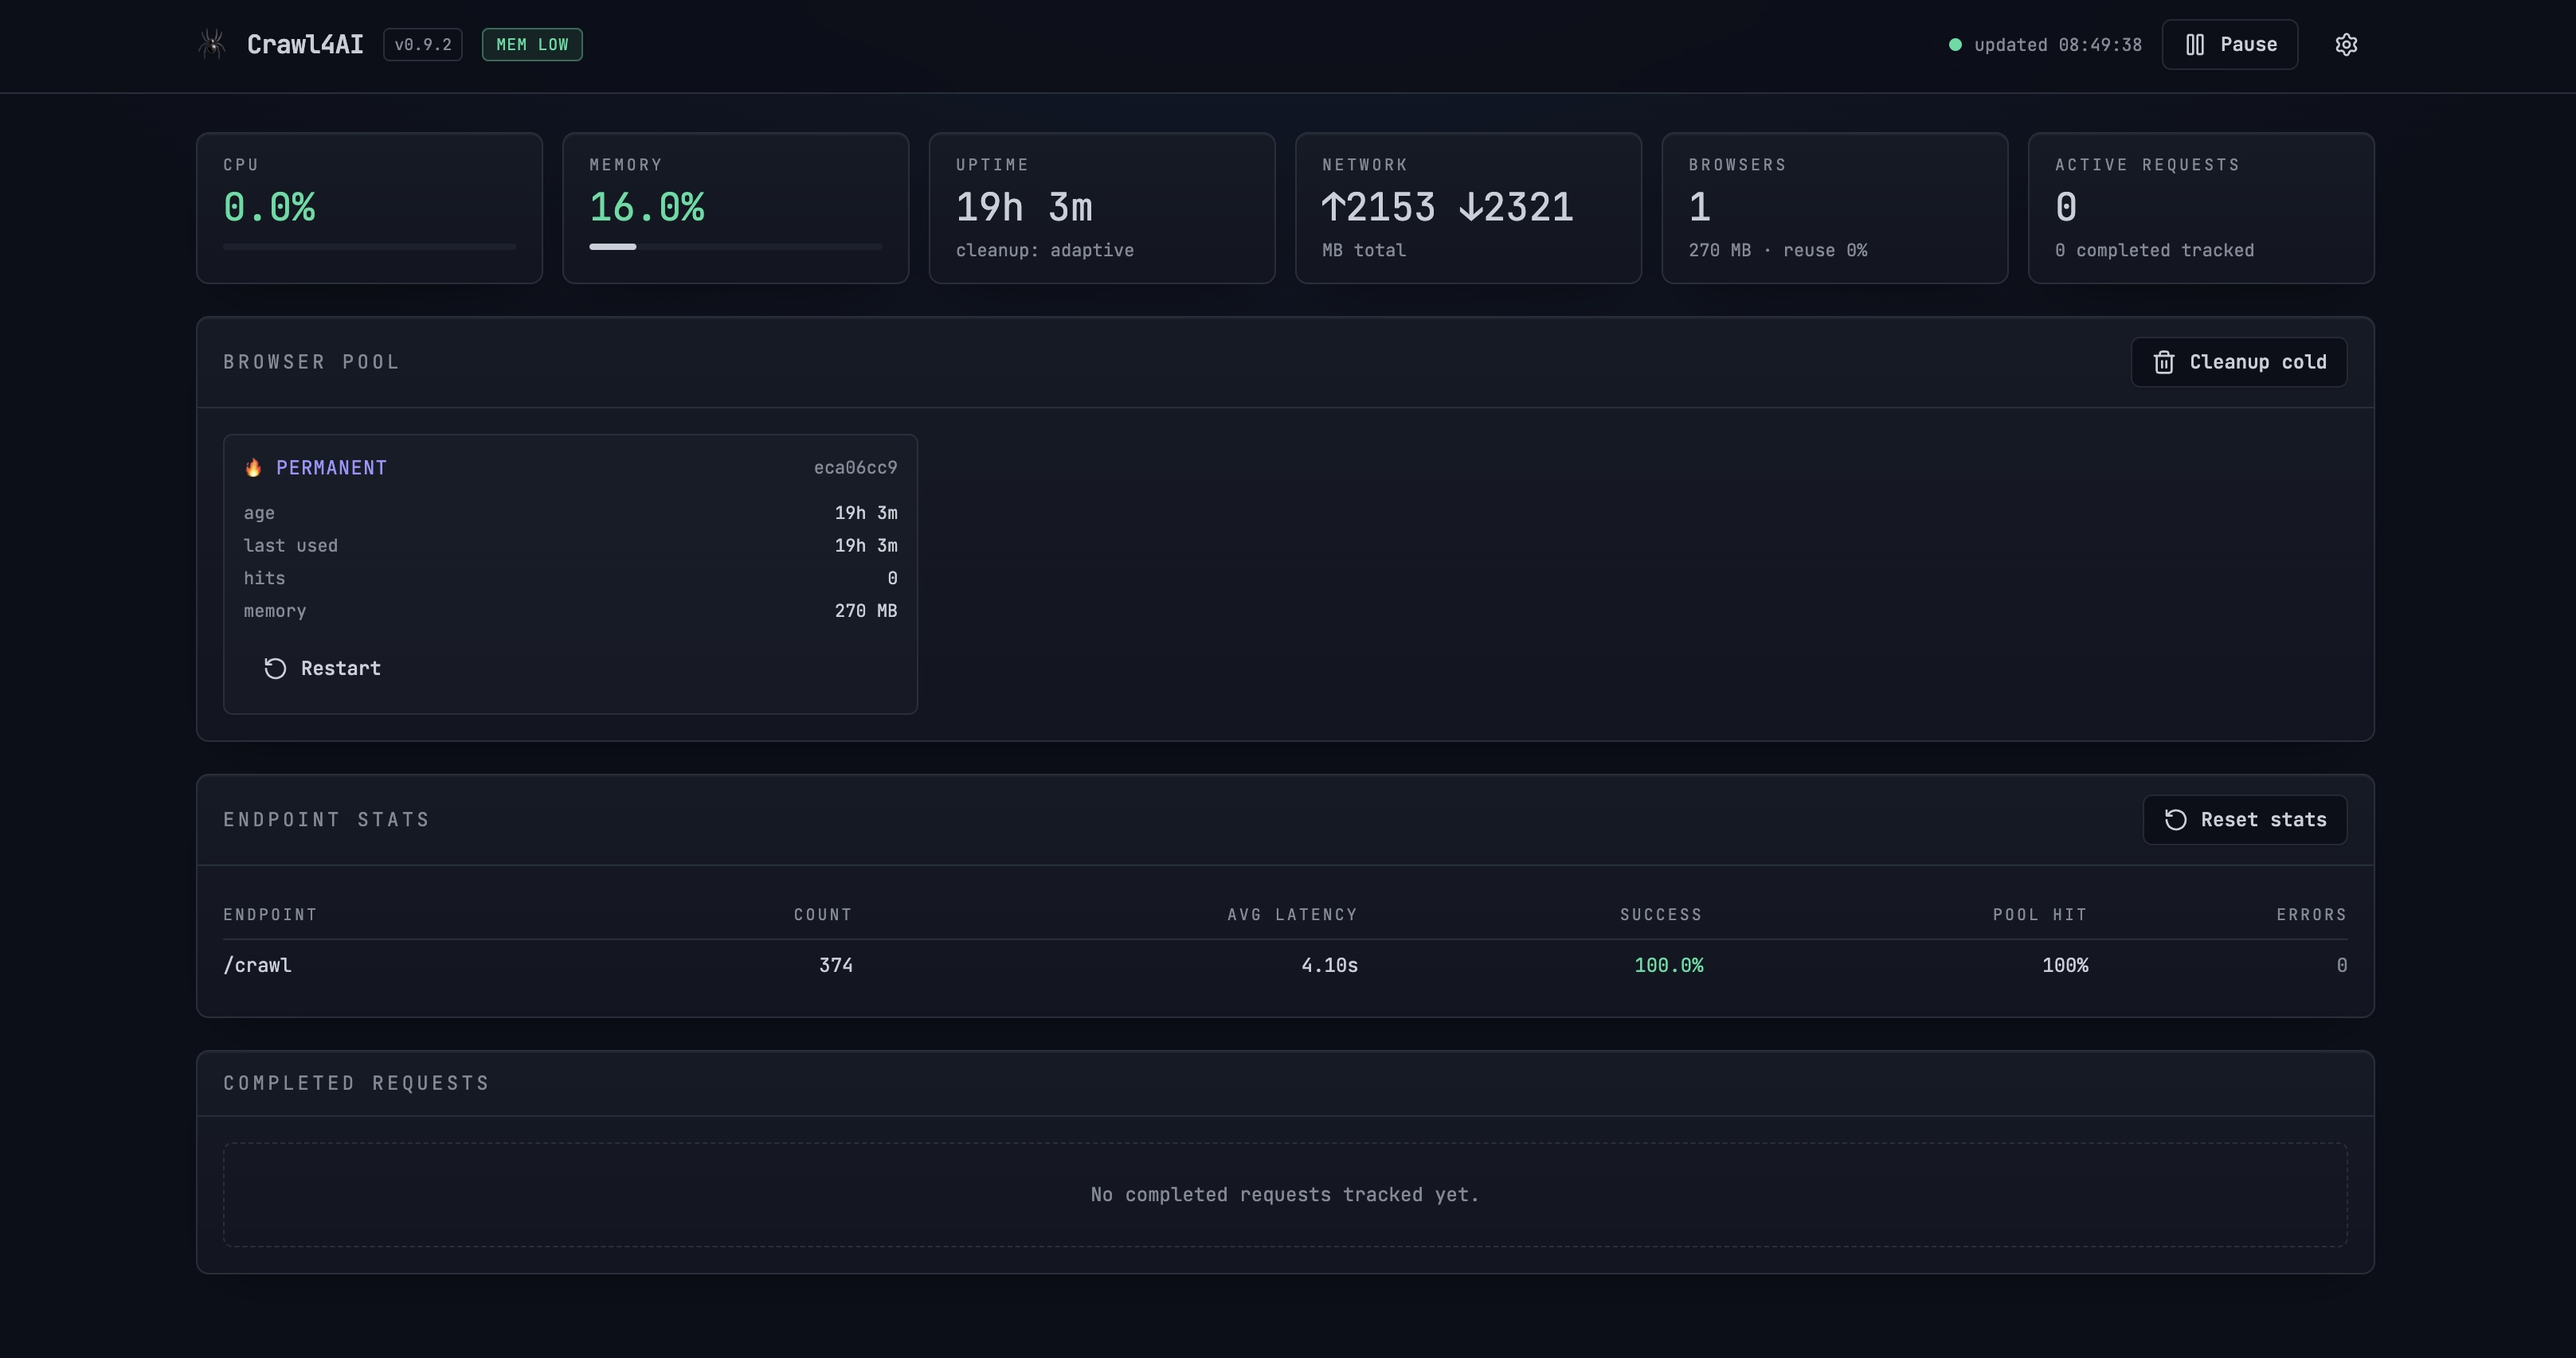
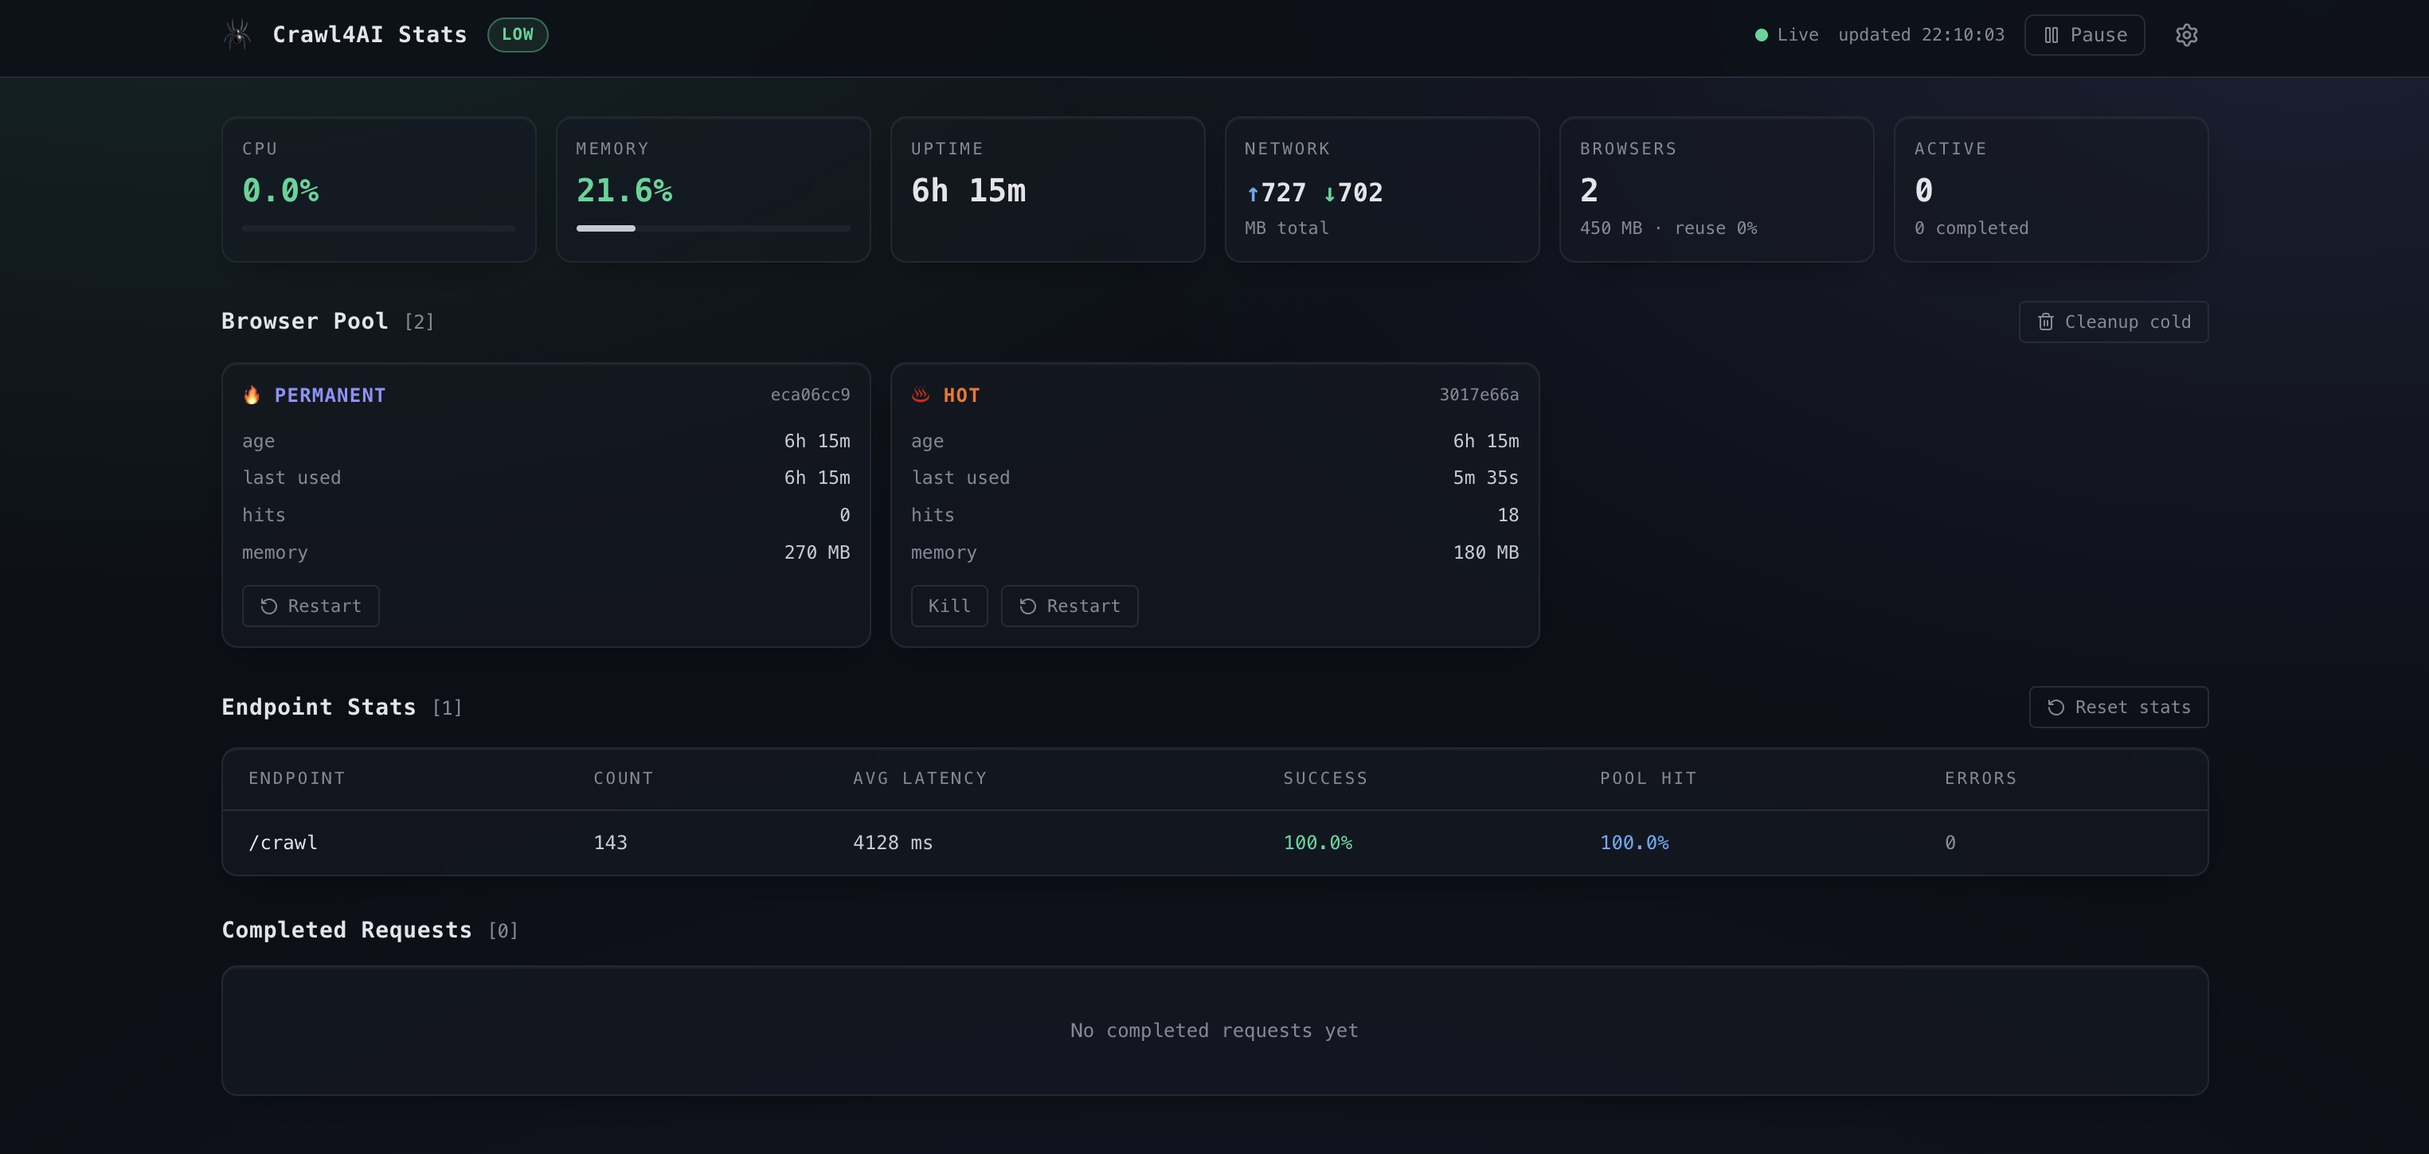
docs: restore dashboard screenshot in README
Update screenshot.jpg with a current capture and re-add the image
reference, which was dropped as a side effect of the CORS-proxy README
rewrite.

diff --git a/README.md b/README.md
@@ -2,7 +2,9 @@
 
 Real-time monitoring dashboard for self-hosted [Crawl4AI](https://github.com/unclecode/crawl4ai) servers (v0.9.x).
 
-![Dashboard screenshot placeholder](https://img.shields.io/badge/status-stable-green) ![License](https://img.shields.io/badge/license-MIT-blue)
+![Status](https://img.shields.io/badge/status-stable-green) ![License](https://img.shields.io/badge/license-MIT-blue)
+
+![Crawl4AI Stats Dashboard](screenshot.jpg)
 
 ## What it does
 
